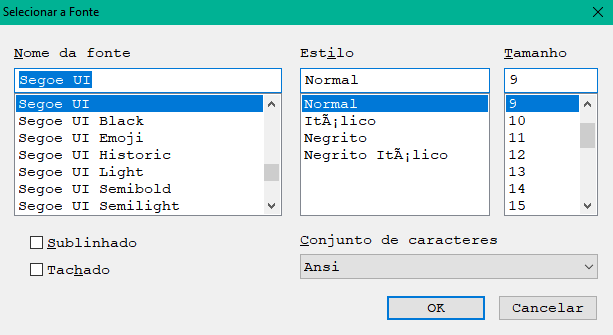
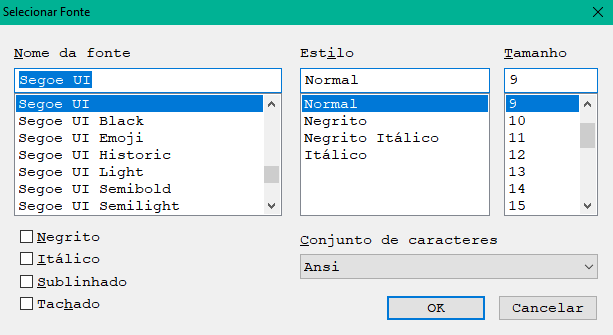
Help update for version 2.41 .

diff --git a/help/pt-br/contents/03.html b/help/pt-br/contents/03.html
@@ -1,6 +1,6 @@
 <!DOCTYPE HTML>
 <!--
-noMeiryoUI (C) 2005,2012-2020 Tatsuhiko Shoji,Claudio Mantovani Vieira
+noMeiryoUI (C) 2005,2012-2021 Tatsuhiko Shoji,Claudio Mantovani Vieira
 The sources for noMeiryoUI are distributed under the MIT open source license
 -->
 <html>
@@ -19,6 +19,16 @@ The sources for noMeiryoUI are distributed under the MIT open source license
 </head>
 <body>
 <h1>3.Histórico</h1>
+
+<div class="chapter">
+<h2>10/01/2020 Versão 2.41</h2>
+<ul>
+  <li>Mostrar todos os estilos de fonte na caixa de diálogo de seleção de fonte.</li>
+  <li>Mostrar o número da versão do novo estilo no Windows 10 versão 20H2.</li>
+</ul>
+</div>
+
+<hr>
 
 <div class="chapter">
 <h2>26/07/2020&nbsp;Versão 2.40.2</h2>

diff --git a/help/zh-cn/contents/03.html b/help/zh-cn/contents/03.html
@@ -1,6 +1,6 @@
 <!DOCTYPE HTML>
 <!--
-noMeiryoUI (C) 2005,2012-2020 Tatsuhiko Shoji,Gekka Tachibana,kingofotaku,icebeam030
+noMeiryoUI (C) 2005,2012-2021 Tatsuhiko Shoji,Gekka Tachibana,kingofotaku,icebeam030
 The sources for noMeiryoUI are distributed under the MIT open source license
 -->
 <html>
@@ -21,7 +21,7 @@ The sources for noMeiryoUI are distributed under the MIT open source license
 <h1>3.更新记录</h1>
 
 <div class="chapter">
-    <h2>2020/??/?? 版本 2.41</h2>
+    <h2>2021/01/10 版本 2.41</h2>
     <ul>
     <li>现在能够读取各字体下所有的字形了。</li>
     <li>支持显示Windows 10 Version 20H2的版本号。</li>

diff --git a/help/ja-jp/contents/03.html b/help/ja-jp/contents/03.html
@@ -1,6 +1,6 @@
 <!DOCTYPE HTML>
 <!--
-noMeiryoUI (C) 2005,2012-2020 Tatsuhiko Shoji
+noMeiryoUI (C) 2005,2012-2021 Tatsuhiko Shoji
 The sources for noMeiryoUI are distributed under the MIT open source license
 -->
 <html>
@@ -21,7 +21,7 @@ The sources for noMeiryoUI are distributed under the MIT open source license
 <h1>3.製作履歴</h1>
 
 <div class="chapter">
-<h2>2020/??/?? Version 2.41</h2>
+<h2>2021/01/10 Version 2.41</h2>
 <ul>
 <li>各フォントのすべてのスタイルが表示されるようにしました。</li>
 <li>Windows 10 Version 20H2のバージョン番号表記に対応しました。</li>

diff --git a/help/en-us/contents/03.html b/help/en-us/contents/03.html
@@ -1,6 +1,6 @@
 <!DOCTYPE HTML>
 <!--
-noMeiryoUI (C) 2005,2012-2020 Tatsuhiko Shoji
+noMeiryoUI (C) 2005,2012-2021 Tatsuhiko Shoji
 The sources for noMeiryoUI are distributed under the MIT open source license
 -->
 <html>
@@ -21,7 +21,7 @@ The sources for noMeiryoUI are distributed under the MIT open source license
 <h1>3.History</h1>
 
 <div class="chapter">
-<h2>??/??/2020 Version 2.41</h2>
+<h2>01/10/2021 Version 2.41</h2>
 <ul>
 <li>Show all font styles on font selection dialog.</li>
 <li>Show new style version number on Windows 10 version 20H2.</li>

diff --git a/help/ko-kr/contents/03.html b/help/ko-kr/contents/03.html
@@ -1,6 +1,6 @@
 <!DOCTYPE HTML>
 <!--
-noMeiryoUI (C) 2005,2012-2020 Tatsuhiko Shoji,deVbug,창윤
+noMeiryoUI (C) 2005,2012-2021 Tatsuhiko Shoji,deVbug,창윤
 The sources for noMeiryoUI are distributed under the MIT open source license
 -->
 <html>
@@ -19,6 +19,11 @@ The sources for noMeiryoUI are distributed under the MIT open source license
 </head>
 <body>
 <h1>3. 제작 이력</h1>
+
+<div class="chapter">
+<h2>2021/01/10 Version 2.41</h2>
+</div>
+<hr>
 
 <div class="chapter">
 <h2>2020/07/26 Version 2.40.2</h2>
